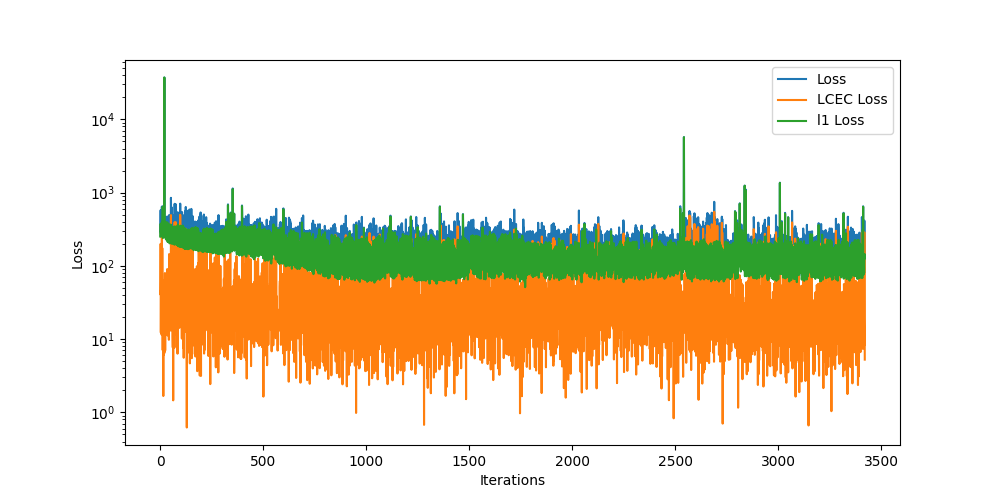
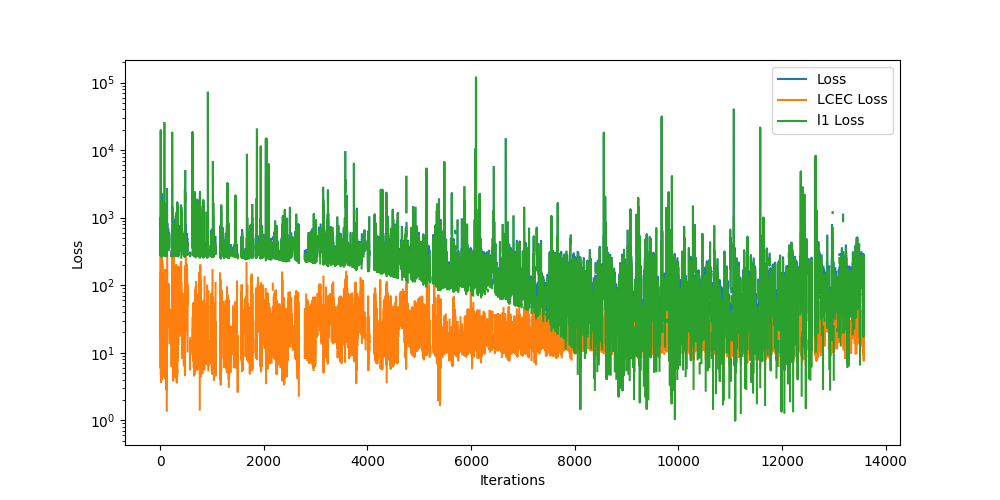
standard updates

diff --git a/model_7_lite.py b/model_7_lite.py
@@ -1,6 +1,6 @@
-# potentially to do for model 7: try different criterions, gradient smoothing, take log of loss or loss component, loss component balancing... play with LR scheduler
-#also see if you really should be estimating the second time step for anything but temperature!
-#de is modified from https://www.sciencedirect.com/science/article/abs/pii/S0020722507000900?via%3Dihub
+# potentially to do for model 7: try global search model? try different criterions, gradient smoothing, take log of loss or loss component, loss component balancing... play with LR scheduler
+#also see if you really should be estimating the second time step for anything but temperature! test the model in different dynamical scenarios it hasnt seen, build a causal model to validate this
+#de is modified from https://www.sciencedirect.com/science/article/abs/pii/S0020722507000900?via%3Dihub, math condition that can be satisfied: measure for how likely it is to operate beyond the training data, age and climate change example..., there should be a condition that can be satisfied, what is the probability that its wrong
 import torch
 import torch.nn as nn
 import pandas as pd
@@ -38,7 +38,7 @@ class TransformerModel(nn.Module):
 
         src = self.embedding(src)
         output = self.transformer_encoder(src)
-        output = 100*torch.abs(self.decoder(output[-1])) # just pressure
+        output = torch.abs(self.decoder(output[-1])) # just pressure
         
         src_grk = self.embedding_greek(grk)
         output_grk = self.transformer_encoder_greek(src_grk)
@@ -49,19 +49,19 @@ class TransformerModel(nn.Module):
         return output,output_grk
 
 # Parameters
-n_features = 128
-n_hiddens = 64
-n_layers = 24
-n_heads = 64
-n_epochs = 100
-batch_size = 128
-learning_rate = 0.0001
+n_features = 32
+n_hiddens = 32
+n_layers = 8
+n_heads = 16
+n_epochs = 300
+batch_size = 32
+learning_rate = 0.001
 
 # Create the model
 model = TransformerModel(n_features, n_hiddens, n_layers, n_heads)
 
 # Loss function and optimizer
-criterion =  nn.SmoothL1Loss(reduction='mean', beta=20)
+criterion =  nn.L1Loss()
 optimizer = optim.Adam(model.parameters(), lr=learning_rate)
 
 # Training loop
@@ -74,7 +74,9 @@ diff_loss_values = []
 fig, ax = plt.subplots(figsize=(10, 5))
 
 for epoch in range(n_epochs):
+    print(epoch)
     for i in range(0, len(x), batch_size):
+
         batch = x[i:i+batch_size]
 
         # Forward pass
@@ -92,34 +94,35 @@ for epoch in range(n_epochs):
         #now the entropy loss with the learned constant entropy
         #learned constant entropy
         alpha,beta,gamma,xi,mu,theta = outputs_grk
-        
-        t_pred_1 = alpha * (mu - beta * i_1 - gamma * v_1 * rh_1 - xi *(theta))**-1 #before this was rh2-rh1 instead of theta, you could use rh1 as well to try, also maybe you can predict all the other variables this way off of each other!
-        r_pred = (v_1*gamma)**-1 * (mu - alpha * temp_1 **-1 * beta * i_1 - xi*theta)
-        v_pred = (rh_1*gamma)**-1 * (mu - alpha * temp_1 **-1 * beta * i_1 - xi*theta)
-        i_pred = beta ** -1 * (mu - alpha/temp_1 - gamma * v_1 * rh_1 - xi*theta)
         t_pred = t
         p_pred = p
+        t_pred_1 = alpha * (mu - beta * i_1 - gamma * v_1 * rh_1 - xi *(theta))**-1 #before this was rh2-rh1 instead of theta, you could use rh1 as well to try, also maybe you can predict all the other variables this way off of each other!
+        r_pred = (v_1*gamma)**-1 * (mu - alpha * temp_1 **-1 - beta * i_1 - xi*theta)
+        v_pred = (rh_1*gamma)**-1 * (mu - alpha * temp_1 **-1 - beta * i_1 - xi*theta)
+        i_pred = beta ** -1 * (mu + alpha/temp_1 - gamma * v_1 * rh_1 - xi*theta)
+        
         x_prime = torch.cat((t_pred.unsqueeze(0),p_pred.unsqueeze(0),r_pred.unsqueeze(0),i_pred.unsqueeze(0),v_pred.unsqueeze(0)))
         #all_pred  = torch.cat((batch[:-1,],x_prime.unsqueeze(0)),0) # maybe comment out
         # and the loss on the temperature: 
         d_entropy_pt = torch.log(temp_2/temp_1)  - 8.314 * torch.log(p_2/p_1) # the actual delta entropy
         d_entropy_lce = (alpha/temp_2 + beta * i_2 + gamma * v_2 * rh_2 + xi * (rh_2)) - (alpha/temp_1 + beta * i_1 + gamma * v_1 * rh_1 + xi * (rh_1)) 
         #loss for the learned constants to be accurate (learned constant entropy constants loss)
-        loss_lcec = torch.abs(t_pred_1-t_pred)+(torch.abs(d_entropy_lce-d_entropy_pt))+(torch.abs(mu-d_entropy_pt))+(torch.abs(theta - (rh_2 - rh_1))) #before there was no constant theta
+        loss_lcec = torch.log(torch.max(t_pred/t_pred_1,t_pred_1/t_pred))+(torch.abs(d_entropy_lce-d_entropy_pt))+(torch.abs(mu-d_entropy_pt))+(torch.abs(theta - (rh_2 - rh_1))) #before there was no constant theta
         #now we can compute the temperature and add that to the final loss
         # Backward pass and optimization
         optimizer.zero_grad()
 
         loss =  criterion(x_prime,batch[-1,]) + (loss_lcec) # see if focusing more on temperature loss and less on sporadic losses like wind prediction helps, ie use the transformer to estimate the current state for nontemp variables
         loss.backward()
-        #torch.nn.utils.clip_grad_norm_(model.parameters(), max_norm=20.0) gradient clipping
-
+        torch.nn.utils.clip_grad_norm_(model.parameters(), max_norm=1.0) 
         optimizer.step()
         print("outputs ",x_prime)
         print("actual ", batch[-1, :])
-        print("loss",loss,"lcec loss",loss_lcec,"l1 loss " ,loss - loss_lcec)
-        # if (i+1) % 300 == 0:
-        #     learning_rate *= 0.1
+        # print("loss",loss,"lcec loss",loss_lcec,"l1 loss " ,loss - loss_lcec)
+        # if (i+1) % 1800 == 0:
+        #     learning_rate *= 0.99999
+        #     if learning_rate < 0.00001:
+        #         learning_rate = 0.00001
         #     for param_group in optimizer.param_groups:
         #         param_group['lr'] = learning_rate
 
@@ -127,31 +130,31 @@ for epoch in range(n_epochs):
         loss_values.append(loss.item())
         loss_lcec_values.append(loss_lcec.item())
         diff_loss_values.append((loss - loss_lcec).item())
+        if (i) % 2000 == 0:
+            # Clear the plot
+            ax.clear()
 
-        # Clear the plot
-        ax.clear()
+            # Plot the losses
+            ax.plot(loss_values, label='Loss')
+            ax.plot(loss_lcec_values, label='LCEC Loss')
+            ax.plot(diff_loss_values, label='l1 Loss')
 
-        # Plot the losses
-        ax.plot(loss_values, label='Loss')
-        ax.plot(loss_lcec_values, label='LCEC Loss')
-        ax.plot(diff_loss_values, label='l1 Loss')
+            ax.set_xlabel('Iterations')
+            ax.set_ylabel('Loss')
+            ax.set_yscale('log')
+            ax.legend()
 
-        ax.set_xlabel('Iterations')
-        ax.set_ylabel('Loss')
-        ax.set_yscale('log')
-        ax.legend()
+            # Save the plot to a buffer
+            buf = io.BytesIO()
+            plt.savefig(buf, format='png')
+            buf.seek(0)
 
-        # Save the plot to a buffer
-        buf = io.BytesIO()
-        plt.savefig(buf, format='png')
-        buf.seek(0)
+            # Open the image from the buffer
+            img = Image.open(buf)
 
-        # Open the image from the buffer
-        img = Image.open(buf)
+            # Display the plot
+            clear_output(wait=True)
+            display(img)
 
-        # Display the plot
-        clear_output(wait=True)
-        display(img)
-
-        # Save the plot to a file
-        plt.savefig(f'plots/loss_plot_epoch_{epoch+1}.png')
+            # Save the plot to a file
+            plt.savefig(f'plots/loss_plot_epoch_{epoch+1}.png')

diff --git a/archived_models/model7.py b/archived_models/model7.py
@@ -1,0 +1,157 @@
+# potentially to do for model 7: try global search model? try different criterions, gradient smoothing, take log of loss or loss component, loss component balancing... play with LR scheduler
+#also see if you really should be estimating the second time step for anything but temperature! test the model in different dynamical scenarios it hasnt seen, build a causal model to validate this
+#de is modified from https://www.sciencedirect.com/science/article/abs/pii/S0020722507000900?via%3Dihub, math condition that can be satisfied: measure for how likely it is to operate beyond the training data, age and climate change example..., there should be a condition that can be satisfied, what is the probability that its wrong
+import torch
+import torch.nn as nn
+import pandas as pd
+import torch.optim as optim
+import matplotlib.pyplot as plt
+from IPython.display import display, clear_output
+from IPython.display import Image
+import os
+import numpy as np
+import io
+from PIL import Image
+from torch.optim.lr_scheduler import StepLR
+
+# Load and process the DataFrame
+df = pd.read_pickle('sorted.pkl')  # Ensure this is already sorted by time
+df['Temperature']  = df['Temperature'] + 273
+# Convert 'Temperature' and 'Pressure' to PyTorch tensors
+x = torch.tensor(df[['Temperature', 'Pressure', 'Relative Humidity', 'DNI', 'Wind Speed']].values, dtype=torch.float32)
+
+class TransformerModel(nn.Module):
+    def __init__(self, n_features, n_hiddens, n_layers, n_heads, dropout=0.1):
+        super(TransformerModel, self).__init__()
+        self.embedding = nn.Linear(5, n_hiddens)
+        encoder_layers = nn.TransformerEncoderLayer(n_hiddens, n_heads, n_hiddens, dropout)
+        self.transformer_encoder = nn.TransformerEncoder(encoder_layers, n_layers)#try lstm instead of transformer here
+        self.decoder = nn.Linear(n_hiddens, 2)
+
+        self.embedding_greek = nn.Linear(5, n_hiddens)
+        encoder_layers_greek = nn.TransformerEncoderLayer(n_hiddens, n_heads, n_hiddens, dropout)
+        self.transformer_encoder_greek = nn.TransformerEncoder(encoder_layers_greek, n_layers)
+        self.decoder_greek = nn.Linear(n_hiddens, 6)
+
+    def forward(self, src):
+        grk = src
+
+        src = self.embedding(src)
+        output = self.transformer_encoder(src)
+        output = 100*torch.abs(self.decoder(output[-1])) # just pressure
+        
+        src_grk = self.embedding_greek(grk)
+        output_grk = self.transformer_encoder_greek(src_grk)
+        output_grk = self.decoder_greek(output_grk[-1])
+
+
+
+        return output,output_grk
+
+# Parameters
+n_features = 128
+n_hiddens = 64
+n_layers = 24
+n_heads = 64
+n_epochs = 100
+batch_size = 128
+learning_rate = 0.0001
+
+# Create the model
+model = TransformerModel(n_features, n_hiddens, n_layers, n_heads)
+
+# Loss function and optimizer
+criterion =  nn.SmoothL1Loss(reduction='mean', beta=20)
+optimizer = optim.Adam(model.parameters(), lr=learning_rate)
+
+# Training loop
+if not os.path.exists('plots'):
+    os.makedirs('plots')
+
+loss_values = []
+loss_lcec_values = []
+diff_loss_values = []
+fig, ax = plt.subplots(figsize=(10, 5))
+
+for epoch in range(n_epochs):
+    for i in range(0, len(x), batch_size):
+        batch = x[i:i+batch_size]
+
+        # Forward pass
+        t_p,outputs_grk = model(batch[:-1])
+        t = t_p[0]
+        p = t_p[1]
+        actual = batch[-1,]
+        
+
+
+        #now we need to create the loss of the greeks to the entropy
+
+        temp_1,temp_2,p_1,p_2,rh_2,rh_1,i_2,i_1,v_2,v_1 = batch[-2,0],batch[-1,0],batch[-2,1],batch[-1,1],batch[-2,2],batch[-1,2],batch[-2,3],batch[-1,3],batch[-2,4],batch[-1,4]
+        
+        #now the entropy loss with the learned constant entropy
+        #learned constant entropy
+        alpha,beta,gamma,xi,mu,theta = outputs_grk
+        
+        t_pred_1 = alpha * (mu - beta * i_1 - gamma * v_1 * rh_1 - xi *(theta))**-1 #before this was rh2-rh1 instead of theta, you could use rh1 as well to try, also maybe you can predict all the other variables this way off of each other!
+        r_pred = (v_1*gamma)**-1 * (mu - alpha * temp_1 **-1 * beta * i_1 - xi*theta)
+        v_pred = (rh_1*gamma)**-1 * (mu - alpha * temp_1 **-1 * beta * i_1 - xi*theta)
+        i_pred = beta ** -1 * (mu - alpha/temp_1 - gamma * v_1 * rh_1 - xi*theta)
+        t_pred = t
+        p_pred = p
+        x_prime = torch.cat((t_pred.unsqueeze(0),p_pred.unsqueeze(0),r_pred.unsqueeze(0),i_pred.unsqueeze(0),v_pred.unsqueeze(0)))
+        #all_pred  = torch.cat((batch[:-1,],x_prime.unsqueeze(0)),0) # maybe comment out
+        # and the loss on the temperature: 
+        d_entropy_pt = torch.log(temp_2/temp_1)  - 8.314 * torch.log(p_2/p_1) # the actual delta entropy
+        d_entropy_lce = (alpha/temp_2 + beta * i_2 + gamma * v_2 * rh_2 + xi * (rh_2)) - (alpha/temp_1 + beta * i_1 + gamma * v_1 * rh_1 + xi * (rh_1)) 
+        #loss for the learned constants to be accurate (learned constant entropy constants loss)
+        loss_lcec = torch.abs(t_pred_1-t_pred)+(torch.abs(d_entropy_lce-d_entropy_pt))+(torch.abs(mu-d_entropy_pt))+(torch.abs(theta - (rh_2 - rh_1))) #before there was no constant theta
+        #now we can compute the temperature and add that to the final loss
+        # Backward pass and optimization
+        optimizer.zero_grad()
+
+        loss =  criterion(x_prime,batch[-1,]) + (loss_lcec) # see if focusing more on temperature loss and less on sporadic losses like wind prediction helps, ie use the transformer to estimate the current state for nontemp variables
+        loss.backward()
+        #torch.nn.utils.clip_grad_norm_(model.parameters(), max_norm=20.0) gradient clipping
+
+        optimizer.step()
+        print("outputs ",x_prime)
+        print("actual ", batch[-1, :])
+        print("loss",loss,"lcec loss",loss_lcec,"l1 loss " ,loss - loss_lcec)
+        # if (i+1) % 300 == 0:
+        #     learning_rate *= 0.1
+        #     for param_group in optimizer.param_groups:
+        #         param_group['lr'] = learning_rate
+
+        # Store the loss values
+        loss_values.append(loss.item())
+        loss_lcec_values.append(loss_lcec.item())
+        diff_loss_values.append((loss - loss_lcec).item())
+
+        # Clear the plot
+        ax.clear()
+
+        # Plot the losses
+        ax.plot(loss_values, label='Loss')
+        ax.plot(loss_lcec_values, label='LCEC Loss')
+        ax.plot(diff_loss_values, label='l1 Loss')
+
+        ax.set_xlabel('Iterations')
+        ax.set_ylabel('Loss')
+        ax.set_yscale('log')
+        ax.legend()
+
+        # Save the plot to a buffer
+        buf = io.BytesIO()
+        plt.savefig(buf, format='png')
+        buf.seek(0)
+
+        # Open the image from the buffer
+        img = Image.open(buf)
+
+        # Display the plot
+        clear_output(wait=True)
+        display(img)
+
+        # Save the plot to a file
+        plt.savefig(f'plots/loss_plot_epoch_{epoch+1}.png')

diff --git a/README.md b/README.md
@@ -1,5 +1,5 @@
 pde transformer entropy (S) model for temp based on STATION data.
 
-The model to run is model7.py here. inductive_7 is the example loss in the first epoch
+The model to run is model7_lite.py here. inductive_7 in loss_curves archives is the example loss in the first epoch of model 7
 
 https://www.sciencedirect.com/science/article/pii/S0020722507000900?via=ihub for inspiration
